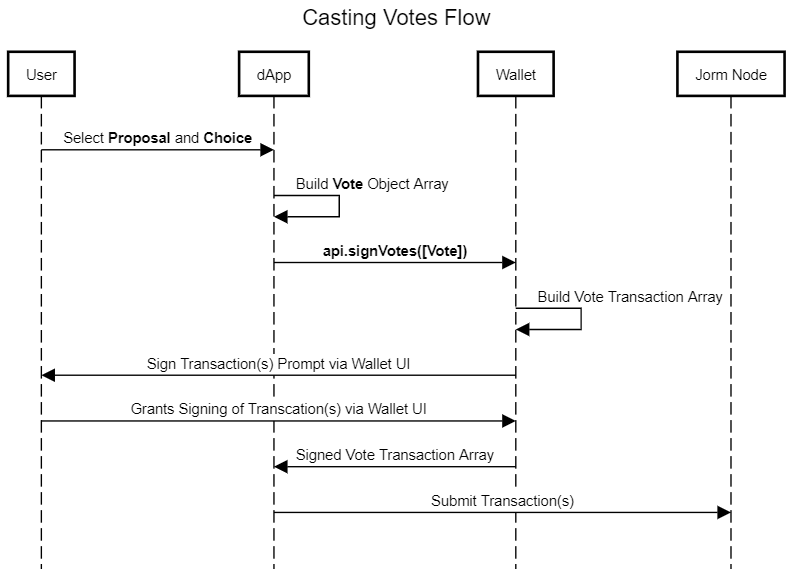
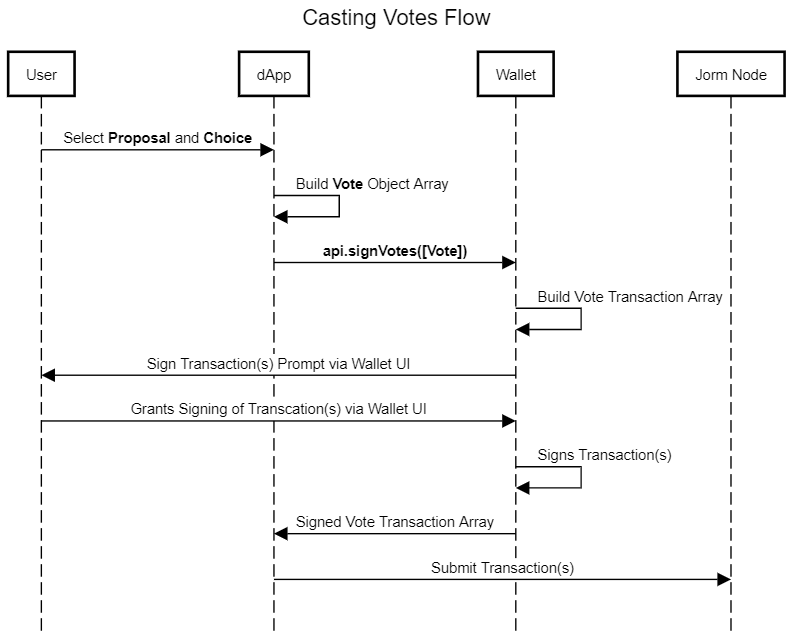
Added explict wallet signing

diff --git a/CIP-0062/README.md b/CIP-0062/README.md
@@ -341,7 +341,7 @@ The [Signed Delegation Metadata](#signeddelegationmetadata) of the voter registr
 1. The dApp collects the users voting choices for a particular voting proposal.
 2. The dApp submits that choice through [api.signVotes](#apisignvotesvotes-vote-promisebytes) which confirms the votes with the user, and signs them.
 
-![Diagram: Sequence of vote casting](vote-cast-flow.png)
+![Diagram: Potential sequence of vote casting](vote-cast-flow.png)
 
 ## **Test Vectors**
 
